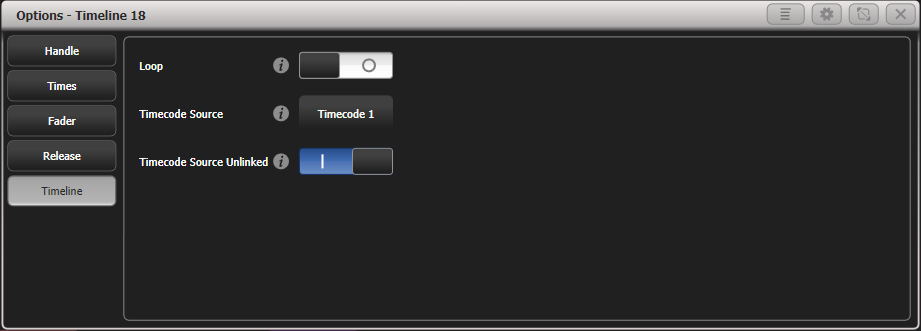
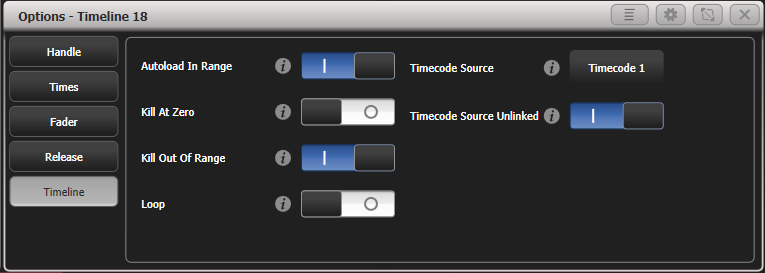
More timeline

Changed region(s): [[0.0, 0.0, 1.0, 1.0], [0.3608, 0.674, 0.5412, 0.8205], [0.6915, 0.1758, 0.8719, 0.293]]

diff --git a/docs/timelines/timeline-options.md b/docs/timelines/timeline-options.md
@@ -5,7 +5,7 @@ sidebar_label: Timeline options
 ---
 
 Timelines have a number of options which set how they operate. 
-Press \<Options\> (or the \[Options\] softkey on the top level menu then the **select** button for the timeline you wish to edit.
+Press \<Options\> (or the \[Options\] softkey on the top level menu) then the **select** button for the timeline you wish to edit.
 
 --- 
 
@@ -51,7 +51,7 @@ Option              | Action
 --------------------|---
 Override Playback Release | **Off**: The playback's own release settings are used.<br>On: The Timeline-Global release settings override the playback settings.
 Release Playbacks to Home | Off: LTP attributes are left when when killing playbacks.<br>**On**: Attributes will return to home if no previous LTP values are set.
-Timeline-Global Release Mask | Sets the Global Release Mask for playbacks triggered by the timeline.
+Timeline-Global Release Mask | Sets the Global Release Mask for playbacks triggered by the timeline (default **no attributes released**).
 Timeline-Global Release Time | Sets the Global Release Time for playbacks triggered by the timeline (default **2 seconds**).
 
 --- 
@@ -62,8 +62,41 @@ Timeline-Global Release Time | Sets the Global Release Time for playbacks trigge
 
 Option              | Action
 --------------------|---
+Autoload In Range | Off: Timeline must be fired manually. <br>**On:** Timeline will be fired automatically when timecode comes within the Start/End time range.
+Kill At Zero | **Off:** Timeline will remain active when the timeline fader is zeroed. <br>On: Timeline will be killed when the timeline fader is zeroed. 
+Kill Out Of Range | Off: Timeline will remain active when the timecode goes outside the Start/End time range. <br>**On:** Timeline will be killed when the timecode goes outside the Start/End time range.
 Loop | **Off**: Internal timecode source continues to run<br>On: Internal timecode source will loop back to Start Time when it reaches End Time.
 Timecode Source | Sets the timecode source for the Timeline from 1-4 (see [Running a Cue List to Timecode](../cue-lists/cue-list-timing#running-a-cue-list-to-timecode))
 Timecode Source Unlinked | This is the same as the Link button in the timeline view - see [Local timecode controls](../timelines.md#local-timecode-controls)
 
 - The Loop option only operates when timecode is set to an internal timecode source.
+
+---
+
+## Time options
+
+You can also set some options from the Edit Times menu - press \<Time\> (or the \[Edit Times\] softkey on the top level menu) then the **select** button for the timeline you wish to edit.
+
+### Set Offset
+
+If the timecode you are using has a large offset or you have been given cue timings that don't match up
+with the timecode source, you can set an offset to make the cues match up instead of having to change
+all the timings. You can also enter small offsets if the lighting cues are not quite synchronised properly.
+
+1. In the Edit Times menu press \[Set Offset\].
+
+2. Using the \[Nudge Amount\] softkey enter a time amount to change the offset by.
+
+3. Press the \[Add\] or \[Subtract\] softkeys to change the current offset by the amount you set. 
+
+4. The current offset time is shown in the prompt area while you are setting it.
+
+Once an offset has been set it is shown below the main timecode display in the Timeline View. In the
+picture below a small offset of 45 seconds is set.
+
+![Timeline timecode offset](/docs/images/Timeline-Offset.png)
+
+
+### Start Time & Duration
+
+These options are a different way of setting the Start Time / End Time options in the [Options - Times tab](../timelines/timeline-options.md#times-tab).

diff --git a/docs/timelines/creating-a-timeline.md b/docs/timelines/creating-a-timeline.md
@@ -24,7 +24,7 @@ This is how you program a timeline using Live Record, from playbacks which you h
 4. Select which track on the timeline you want to record onto using the \[Track\] softkey. 
 You can add triggers to an existing track or create a new track - by default Titan will create a new track.
 
-5. When you are ready to start, press the \[Start Live Record\] softkey. The Titan screen will be outlined in red but recording will not begin until the timecode is started.
+5. When you are ready to start, press the \[Start Live Record\] softkey. The workspaces will be outlined in red but recording will not begin until the timecode is started.
 
 6. For internal timecode source, press the \{>\} button in the top left of the timeline window to start the timecode running. If you are using an external timecode source, start it.
 
@@ -51,7 +51,7 @@ The same trigger after Auto Simplify:
 Adding manual triggers
 -----------------
 
-If you are programming a show where you have been given a list of timecodes for each cue point, you will want to enter the triggers manually at those specific times.
+If you are programming a show where you have been given a list of timecodes for each cue point, you can enter the triggers manually at those specific times.
 
 1.  Press \<Record\>, \[Timeline\], then the **Select button** of the fader where you want to store the timeline. The Timeline View window will automatically open.
 
@@ -65,10 +65,10 @@ If you are programming a show where you have been given a list of timecodes for 
     - **Set Level** inserts a trigger to set an existing playback to a specified level.
     - See the [Triggers](../timelines.md#triggers) section for details of the other types of trigger.
 
-4. If you are using an existing playback, press the **Select** button of the playback you want to fire. (You can skip step 3 and just select a playback straight after pressing the \{+\} button.)
+4. If you are using an existing playback, press the **Select** button of the playback you want to fire. (You can skip step 3 and just select a playback straight after pressing the \{+\} button, Titan will behave as if you pressed **Existing Playback**.)
 
 5. Set the time you want the trigger to fire at. There are several ways to do this:
-    - Type in the time using the \[Reference at hh:mm:ss.ttt\] softkey and press \<Enter\>.
+    - Type in the time using the \[Reference at hh:mm:ss.ttt\] softkey and press \<Enter\>. Use the \<.\> button as a separator, for example typing "1 . 05" will enter 00:01:05:000 or "2 . 2 . 20" will enter 02:02:20.00.
     - Use the current Live Time (blue cursor position) using the \[Reference at Live Time\] softkey.
     - Tap on the Timeline View on the screen at the place where you want the trigger (you can adjust this later).
 
@@ -80,9 +80,9 @@ the numbers you have entered.
 
 ### Importing markers
 
-Using the context menu option \{Import Markers\} you can import markers from an audio editor. This can be helpful when programming to a track.
+Using the context menu option \{Import Markers\} you can import markers from an audio editor. This can help you position triggers when programming to a track.
 
-- When exporting the markers ensure the audio editor is set to export Hours:Minutes:Seconds:Frames and not beats or measures.
+- When creating the exported markers file, ensure the audio editor is set to export Hours:Minutes:Seconds:Frames and not beats or measures.
 
 
 

diff --git a/docs/timelines/running-and-editing-timelines.md b/docs/timelines/running-and-editing-timelines.md
@@ -19,6 +19,10 @@ The HTP (intensity) of fixtures in the timeline is controlled by the fader level
 
 - On consoles with motorised faders and on virtual faders, the faders will move as programmed.
 
+- If you are using internal timecode you can set the timecode to run automatically when you raise the fader, and/or to stop when you lower the fader. See [Timeline Options - Fader](../timelines/timeline-options.md#fader-tab).
+
+- You can set the timeline to loop (when using internal timecode), see [Timeline Options - Timecode](../timelines/timeline-options.md#timecode-tab).
+
 - If you start the timecode at a point part way through the timeline, any active triggers will fire, but previous triggers will not - this might result in fixtures starting from a different state and changing the look.
 
 ### Testing a timeline
@@ -41,6 +45,8 @@ To edit a trigger, you need to select it. There are several different ways to do
 - Click on more triggers to add them to the selection.
 
 - Draw a selection marquee box over the trigger points you want to select. Only the trigger points enclosed by the selection box will be selected, so if you want to select all points in a block they all need to be inside the box. This is a quick way to select one trigger point without having to "multi-click" on a block.
+
+- To clear all selection use the context menu button \{Clear Trigger Selection\} or click in an empty area of the Timeline View.
 
 ### Using arrow buttons to move trigger selection
 
@@ -97,6 +103,8 @@ To help you identify different tracks, you can set a halo colour for each track.
 
 - You can remove a halo colour by pressing \[Remove Halo\] at step 4.
 
+- You can also set legends on markers using the \[Set Legend\] button.
+
 ### Snap options
 
 Using the context menu option \{Snap Options\} you can configure whether new triggers will
@@ -118,7 +126,7 @@ This shows details for each trigger in time order, in the same format as a cue l
 
 ![Timeline table view](/docs/images/Timeline-Table-View.png)
 
-- You can edit any of the settings, except the trigger Action type, by clicking on the grid and using the softkey options.
+- You can edit any of the settings, except the trigger Action type, by clicking on the grid and using the softkey options to change the settings.
 
 - You can add new triggers using the \{+\} button.
 

diff --git a/docs/timelines.md b/docs/timelines.md
@@ -47,7 +47,9 @@ Preload             | Preload the LTP values of a playback over a number of seco
 Marker              | Mark a point in the timecode for information
 Wait for go         | Pause the timeline until you press Go to resume (only on internal timecode)
 
- 
+- **Wait for go** triggers are useful when you have a preset sequence followed by an unknown delay, for
+example a win/walk-up sequence for an awards ceremony when you don't know how long the winner
+will take to reach the stage. Shapes will continue to run while the timeline is paused.
 
 Tracks
 ------------------
@@ -78,7 +80,10 @@ If the timecode source is disabled, the time is shown in red.
 
 ![Timeline disabled](/docs/images/Timeline-Timecode-Disabled.png)
 
-See [Timeline Options](../timelines/timeline-options.md#timecode-tab) for details of how to select timecode sources for timelines.
+See [Timeline Options](./timelines/timeline-options.md#timecode-tab) for details of how to select timecode sources for timelines.
+
+- If your timecode source starts at a big number, you can set a time offset to allow you to use zero-referenced times on your timeline.
+See [Time Offset](./timelines/timeline-options.md#time-options).
 
 The overview bar
 ------------------
@@ -100,7 +105,8 @@ Cursor
 -----------------
 
 The grey user cursor on the Timeline View sets the entry position for new triggers. It can also be used as a "play head" to 
-manually move the play position along the timeline while testing.
+manually move the play position along the timeline while testing. You can position the cursor by tapping the screen in the ruler
+area at the top of the Timeline View.
 
 The \{Select Cursor\} context menu option sets Wheel A to control the cursor position.
 
